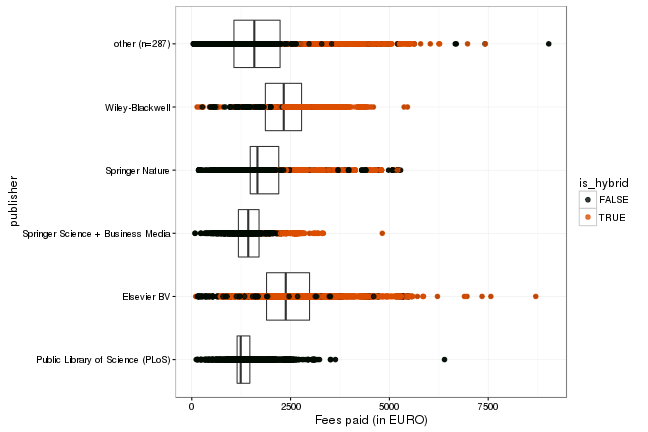
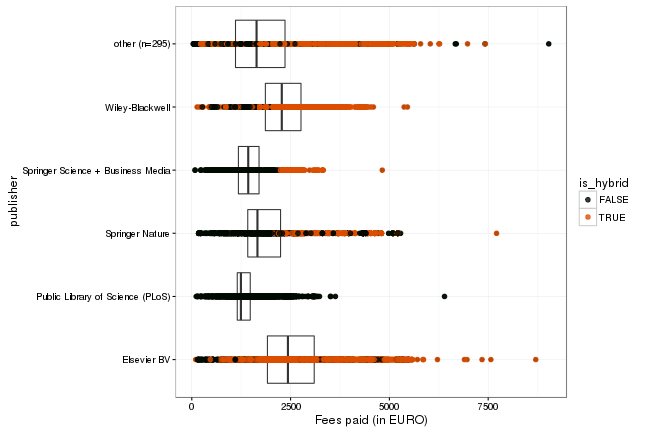
post: wellcome data 2015-16

diff --git a/_posts/2017-06-12-wellcome.md b/_posts/2017-06-12-wellcome.md
@@ -1,0 +1,124 @@
+---
+layout:     post
+author:     Christoph Broschinski
+title:      Additional Wellcome Trust data (2015-2016) included
+date:       2017-06-12 07:00:00
+summary:    
+categories: [general, openAPC]
+comments: true
+---
+
+
+
+
+In 2014 the [Wellcome Trust](https://wellcome.ac.uk/) started to make its APC expenditures publicly available. The [most recent set](https://doi.org/10.6084/m9.figshare.4765999.v2) of data has now been processed and added to Open APC's data collection.
+
+## About the dataset
+
+The dataset contributed by the Wellcome Trust contains information on publication fees covering a time span from October 2015 to September 2016 (OpenAPC treats this data as having all been processed in the 2016 period).
+
+## Cost Data
+
+
+
+The new dataset covers publication fees for 3,059 articles. Total expenditure amounts to 7 327 915€ and the average fee is 2 396€.
+
+The following table shows the payments the Wellcome Trust has made to publishers in 2016 (including taxes and discounts).
+
+
+|                                                                      | Articles| Fees paid in EURO| Mean Fee paid|
+|:---------------------------------------------------------------------|--------:|-----------------:|-------------:|
+|Elsevier BV                                                           |      733|           2144723|          2926|
+|Springer Nature                                                       |      505|           1122606|          2223|
+|Wiley-Blackwell                                                       |      378|            861351|          2279|
+|Oxford University Press (OUP)                                         |      225|            540222|          2401|
+|Public Library of Science (PLoS)                                      |      222|            356820|          1607|
+|BMJ                                                                   |      139|            315418|          2269|
+|Ovid Technologies (Wolters Kluwer Health)                             |       79|            276228|          3497|
+|Informa UK Limited                                                    |       56|             63492|          1134|
+|Frontiers Media SA                                                    |       52|             70460|          1355|
+|Impact Journals, LLC                                                  |       45|            119608|          2658|
+|Society for Neuroscience                                              |       41|            112462|          2743|
+|American Society for Biochemistry & Molecular Biology (ASBMB)         |       39|             65024|          1667|
+|SAGE Publications                                                     |       39|             31735|           814|
+|The Royal Society                                                     |       38|             67645|          1780|
+|American Society for Microbiology                                     |       36|             87097|          2419|
+|American Chemical Society (ACS)                                       |       33|             97200|          2945|
+|The Company of Biologists                                             |       29|             85074|          2934|
+|Cambridge University Press (CUP)                                      |       28|             68771|          2456|
+|The Endocrine Society                                                 |       28|             79859|          2852|
+|Portland Press Ltd.                                                   |       21|             43491|          2071|
+|American Physiological Society                                        |       18|             34011|          1890|
+|American Psychological Association (APA)                              |       17|             65530|          3855|
+|EMBO                                                                  |       15|             48936|          3262|
+|Cold Spring Harbor Laboratory Press                                   |       14|             26757|          1911|
+|IOP Publishing                                                        |       12|             26925|          2244|
+|S. Karger AG                                                          |       12|             34337|          2861|
+|Informa Healthcare                                                    |       11|             19317|          1756|
+|American Society for Nutrition                                        |       10|             47205|          4721|
+|Mary Ann Liebert Inc                                                  |       10|             28445|          2844|
+|MyJove Corporation                                                    |       10|             30707|          3071|
+|FASEB                                                                 |        9|             24670|          2741|
+|Hindawi Publishing Corporation                                        |        9|             13104|          1456|
+|The American Association of Immunologists                             |        9|             22222|          2469|
+|British Institute of Radiology                                        |        7|             17698|          2528|
+|Genetics Society of America                                           |        7|             14901|          2129|
+|Johns Hopkins University Press                                        |        7|             17885|          2555|
+|MDPI AG                                                               |        7|             10352|          1479|
+|Royal Society of Chemistry (RSC)                                      |        7|             12313|          1759|
+|Microbiology Society                                                  |        6|             14348|          2391|
+|American Association for Cancer Research (AACR)                       |        5|             12642|          2528|
+|American Society for Clinical Investigation                           |        5|             15928|          3186|
+|Association for Research in Vision and Ophthalmology (ARVO)           |        5|              8585|          1717|
+|BioScientifica                                                        |        5|             10467|          2093|
+|JMIR Publications Inc.                                                |        5|              8919|          1784|
+|Optical Society of America (OSA)                                      |        5|             10715|          2143|
+|Royal College of General Practitioners                                |        5|             13772|          2754|
+|Royal College of Psychiatrists                                        |        5|             17216|          3443|
+|Future Medicine Ltd                                                   |        4|              8850|          2213|
+|Future Science, LTD                                                   |        4|             12870|          3218|
+|International Union Against Tuberculosis and Lung Disease             |        4|              6054|          1513|
+|American Association for the Advancement of Science (AAAS)            |        3|              7116|          2372|
+|Institute of Electrical & Electronics Engineers (IEEE)                |        3|              4933|          1644|
+|International Union of Crystallography (IUCr)                         |        3|              4580|          1527|
+|American Diabetes Association                                         |        2|              4751|          2376|
+|American Society for Pharmacology & Experimental Therapeutics (ASPET) |        2|              5614|          2807|
+|American Society of Clinical Oncology (ASCO)                          |        2|              7583|          3792|
+|Dove Medical Press Ltd.                                               |        2|              3834|          1917|
+|OMICS Publishing Group                                                |        2|              2692|          1346|
+|Proceedings of the National Academy of Sciences                       |        2|              3838|          1919|
+|Radiological Society of North America (RSNA)                          |        2|              5366|          2683|
+|Schattauer GmbH                                                       |        2|              4043|          2021|
+|American Physical Society (APS)                                       |        1|              2465|          2465|
+|American Society of Nephrology (ASN)                                  |        1|              2845|          2845|
+|American Society of Tropical Medicine and Hygiene                     |        1|              2271|          2271|
+|American Speech Language Hearing Association                          |        1|              2386|          2386|
+|Edinburgh University Global Health Society                            |        1|               402|           402|
+|European Respiratory Society (ERS)                                    |        1|              1717|          1717|
+|F1000 Research, Ltd.                                                  |        1|               452|           452|
+|Open Access Text Pvt, Ltd.                                            |        1|               729|           729|
+|Paris Legal Publishers                                                |        1|               964|           964|
+|PeerJ                                                                 |        1|               571|           571|
+|Portico                                                               |        1|              2892|          2892|
+|Shared Science Publishers OG                                          |        1|               588|           588|
+|Smart Science and Technology, LLC                                     |        1|              1284|          1284|
+|Society for Leukocyte Biology                                         |        1|              2385|          2385|
+|Spandidos Publications                                                |        1|               884|           884|
+|Textrum, Ltd.                                                         |        1|              1148|          1148|
+|Walter de Gruyter GmbH                                                |        1|              1035|          1035|
+|Wichtig Publishing, SRL                                               |        1|              1862|          1862|
+|Wiley                                                                 |        1|              1722|          1722|
+
+With the recent contributions included, the overall APC data for the Wellcome Trust which has been added to OpenAPC up to this point looks as follows: 
+
+### Fees paid per publisher (in EURO)
+
+![plot of chunk tree_wellcome_2017_06_12_full](/figure/tree_wellcome_2017_06_12_full-1.png)
+
+###  Average costs per year (in EURO)
+
+![plot of chunk box_wellcome_2017_06_12_year_full](/figure/box_wellcome_2017_06_12_year_full-1.png)
+
+###  Average costs per publisher (in EURO)
+
+![plot of chunk box_wellcome_2017_06_12_publisher_full](/figure/box_wellcome_2017_06_12_publisher_full-1.png)

diff --git a/about.md b/about.md
@@ -149,13 +149,13 @@ Jisc Collections released data on APC payments made by UK higher education insti
 
 Information on both open access journal articles and open access publication of articles in toll-access journals ("hybrid") are provided.
 
-In total,  58 311 581 € for  31 740 articles were paid by the participating unviversities. Average  fee is 1 837.2 € and the median 1 653 €.
+In total,  65 622 781 € for  34 793 articles were paid by the participating unviversities. Average  fee is 1 886.1 € and the median 1 677 €.
 
 ### Open Access Journals
 
 
 
-At the moment, the dataset releases information on 18 790 articles in open access journals which charge publication fees. Total expenditure amounts to  26 363 193 €. Average  fee is 1 403 € and the median 1 340 €.
+At the moment, the dataset releases information on 19 787 articles in open access journals which charge publication fees. Total expenditure amounts to  28 316 379 €. Average  fee is 1 431.1 € and the median 1 363 €.
 
 View dataset on [GitHub](https://github.com/OpenAPC/openapc-de/blob/master/data/apc_de.csv).
 
@@ -254,7 +254,7 @@ View dataset on [GitHub](https://github.com/OpenAPC/openapc-de/blob/master/data/
 |University of Warwick                       |       73|           146,418|         2,006|  1,641|
 |University of York                          |       31|            57,720|         1,862|  1,638|
 |Virginia Tech                               |      153|           165,423|         1,081|  1,216|
-|Wellcome Trust                              |      767|         1,308,860|         1,706|  1,602|
+|Wellcome Trust                              |    1,764|         3,262,045|         1,849|  1,628|
 |Wuerzburg U                                 |      562|           749,032|         1,333|  1,309|
 
 ### Hybrid articles
@@ -262,7 +262,7 @@ View dataset on [GitHub](https://github.com/OpenAPC/openapc-de/blob/master/data/
 
 
 In many toll-access journals some of the articles are open access after a fee has been paid. This model is often called "hybrid open access".
-The dataset covers 12 950 hybrid open access articles. Total expenditure amounts to  31 948 388 €. Average  fee is 2 467.1 € and the median 2 469 €.
+The dataset covers 15 006 hybrid open access articles. Total expenditure amounts to  37 306 403 €. Average  fee is 2 486.1 € and the median 2 469 €.
 
 The following institutions have contributed its expenditures for hybrid open access.
 
@@ -329,7 +329,7 @@ The following institutions have contributed its expenditures for hybrid open acc
 |University of Warwick                       |      263|           666,536|         2,534|  2,585|
 |University of York                          |       57|           155,382|         2,726|  2,662|
 |Virginia Tech                               |       14|            20,480|         1,463|  1,256|
-|Wellcome Trust                              |    2,335|         6,210,243|         2,660|  2,614|
+|Wellcome Trust                              |    4,391|        11,568,258|         2,635|  2,565|
 
 ## Use of external sources
 
